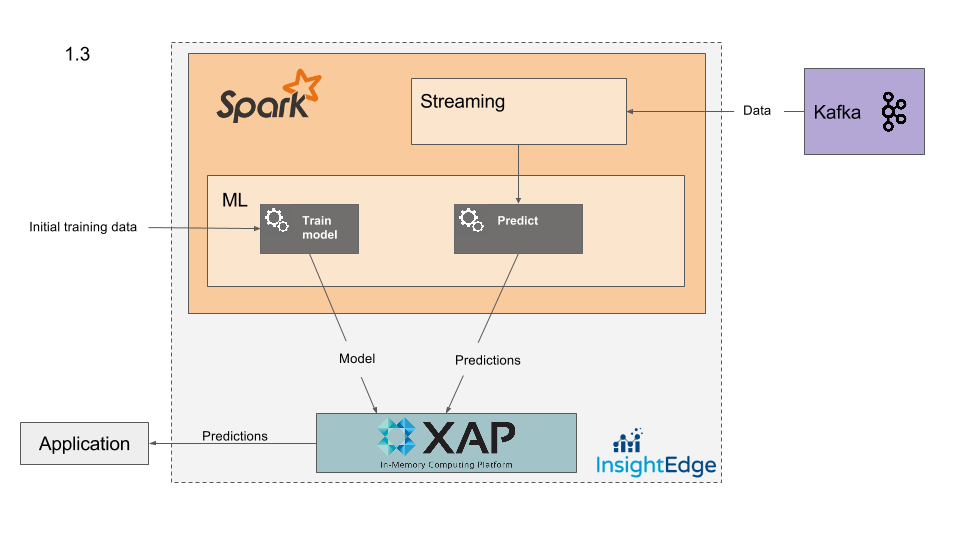
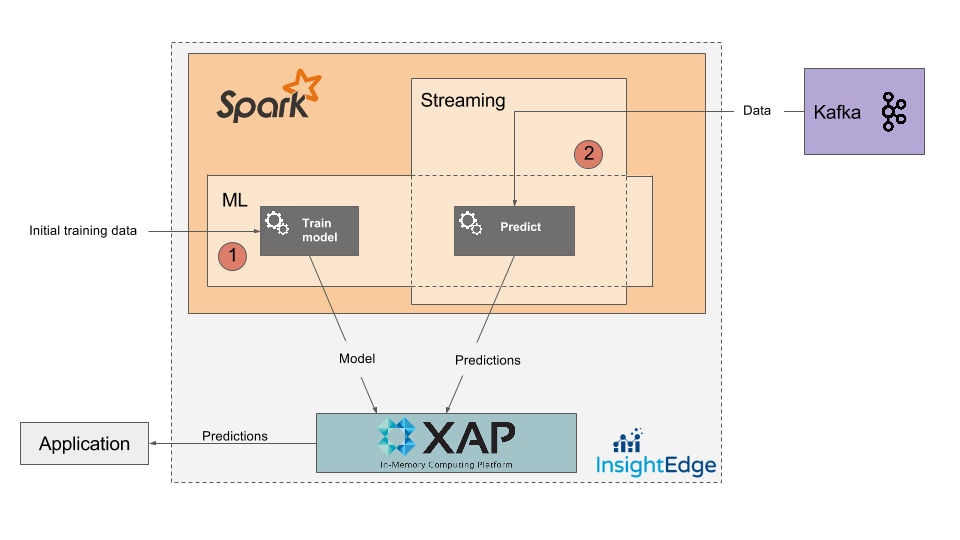
Update architecture

diff --git a/article/article.md b/article/article.md
@@ -2,7 +2,10 @@
 ### Intro & Use case
 In this post we will show how to you can use InsightEdge to do a real time prediction for flights delay. We will use a solution based on a decision tree algorithm described by Carol McDonald in her MapR [blog post](https://www.mapr.com/blog/apache-spark-machine-learning-tutorial) and will try to improve it to give us more accurate prediction.
  
-Why would you do a flight delay prediction? For clients it gives a better expectation about flight time thus gives an ability to plan their time accordingly. For airlines companies it shows where they can minimize flight delays thereby minimize expenses and increase customer satisfaction.   
+Why would you do a flight delay prediction? For clients it gives a more accurate expectation about flight time thus gives an ability to plan their time accordingly. For airlines companies it shows where they can minimize flight delays thereby minimize expenses and increase customers satisfaction.  
+
+Building solution on top of the InsightEdge allows it to be distributed and easy scalable...
+
 ### Architecture
 
 The following slide shows us one the possible solutions which suits for our task.
@@ -19,9 +22,11 @@ Let's see two Spark jobs in details
 
 #### 'Model training' Spark job
 
-Model training job is one-time job which designed to do model initial training. We won't drill deep in details of machine learning algorithms and decision tree model training, you can familiarize yourself in Carol McDonald's blog post mentioned earlier.
-First Spark job will load data from local file system, train model and save it to the grid for later usage.
+Model training job is one-time job which designed to do model initial training. We won't drill deep in details of machine learning algorithms and decision tree model training, you can familiarize yourself with it in Carol McDonald's blog post mentioned earlier.
 
+Spark job loads data from local file system, train model and save it to the grid for later usage.
+
+1. File with data + load + flight parse
 ```python
 
 flight_data_file = ...
@@ -32,10 +37,8 @@ text_rdd = sc.textFile(flight_data_file)
 
 ```
 
-File with data + load + flight parse
-Splitting data into training and test
-Train model
-Save to grid
+2. Train model
+3. Save to grid
 
 #### 'Flight prediction' Spark job
 Second Spark job will load model from the grid, read data from stream and use the model for prediction. Prediction results are stored in the grid alongside with flight data.
